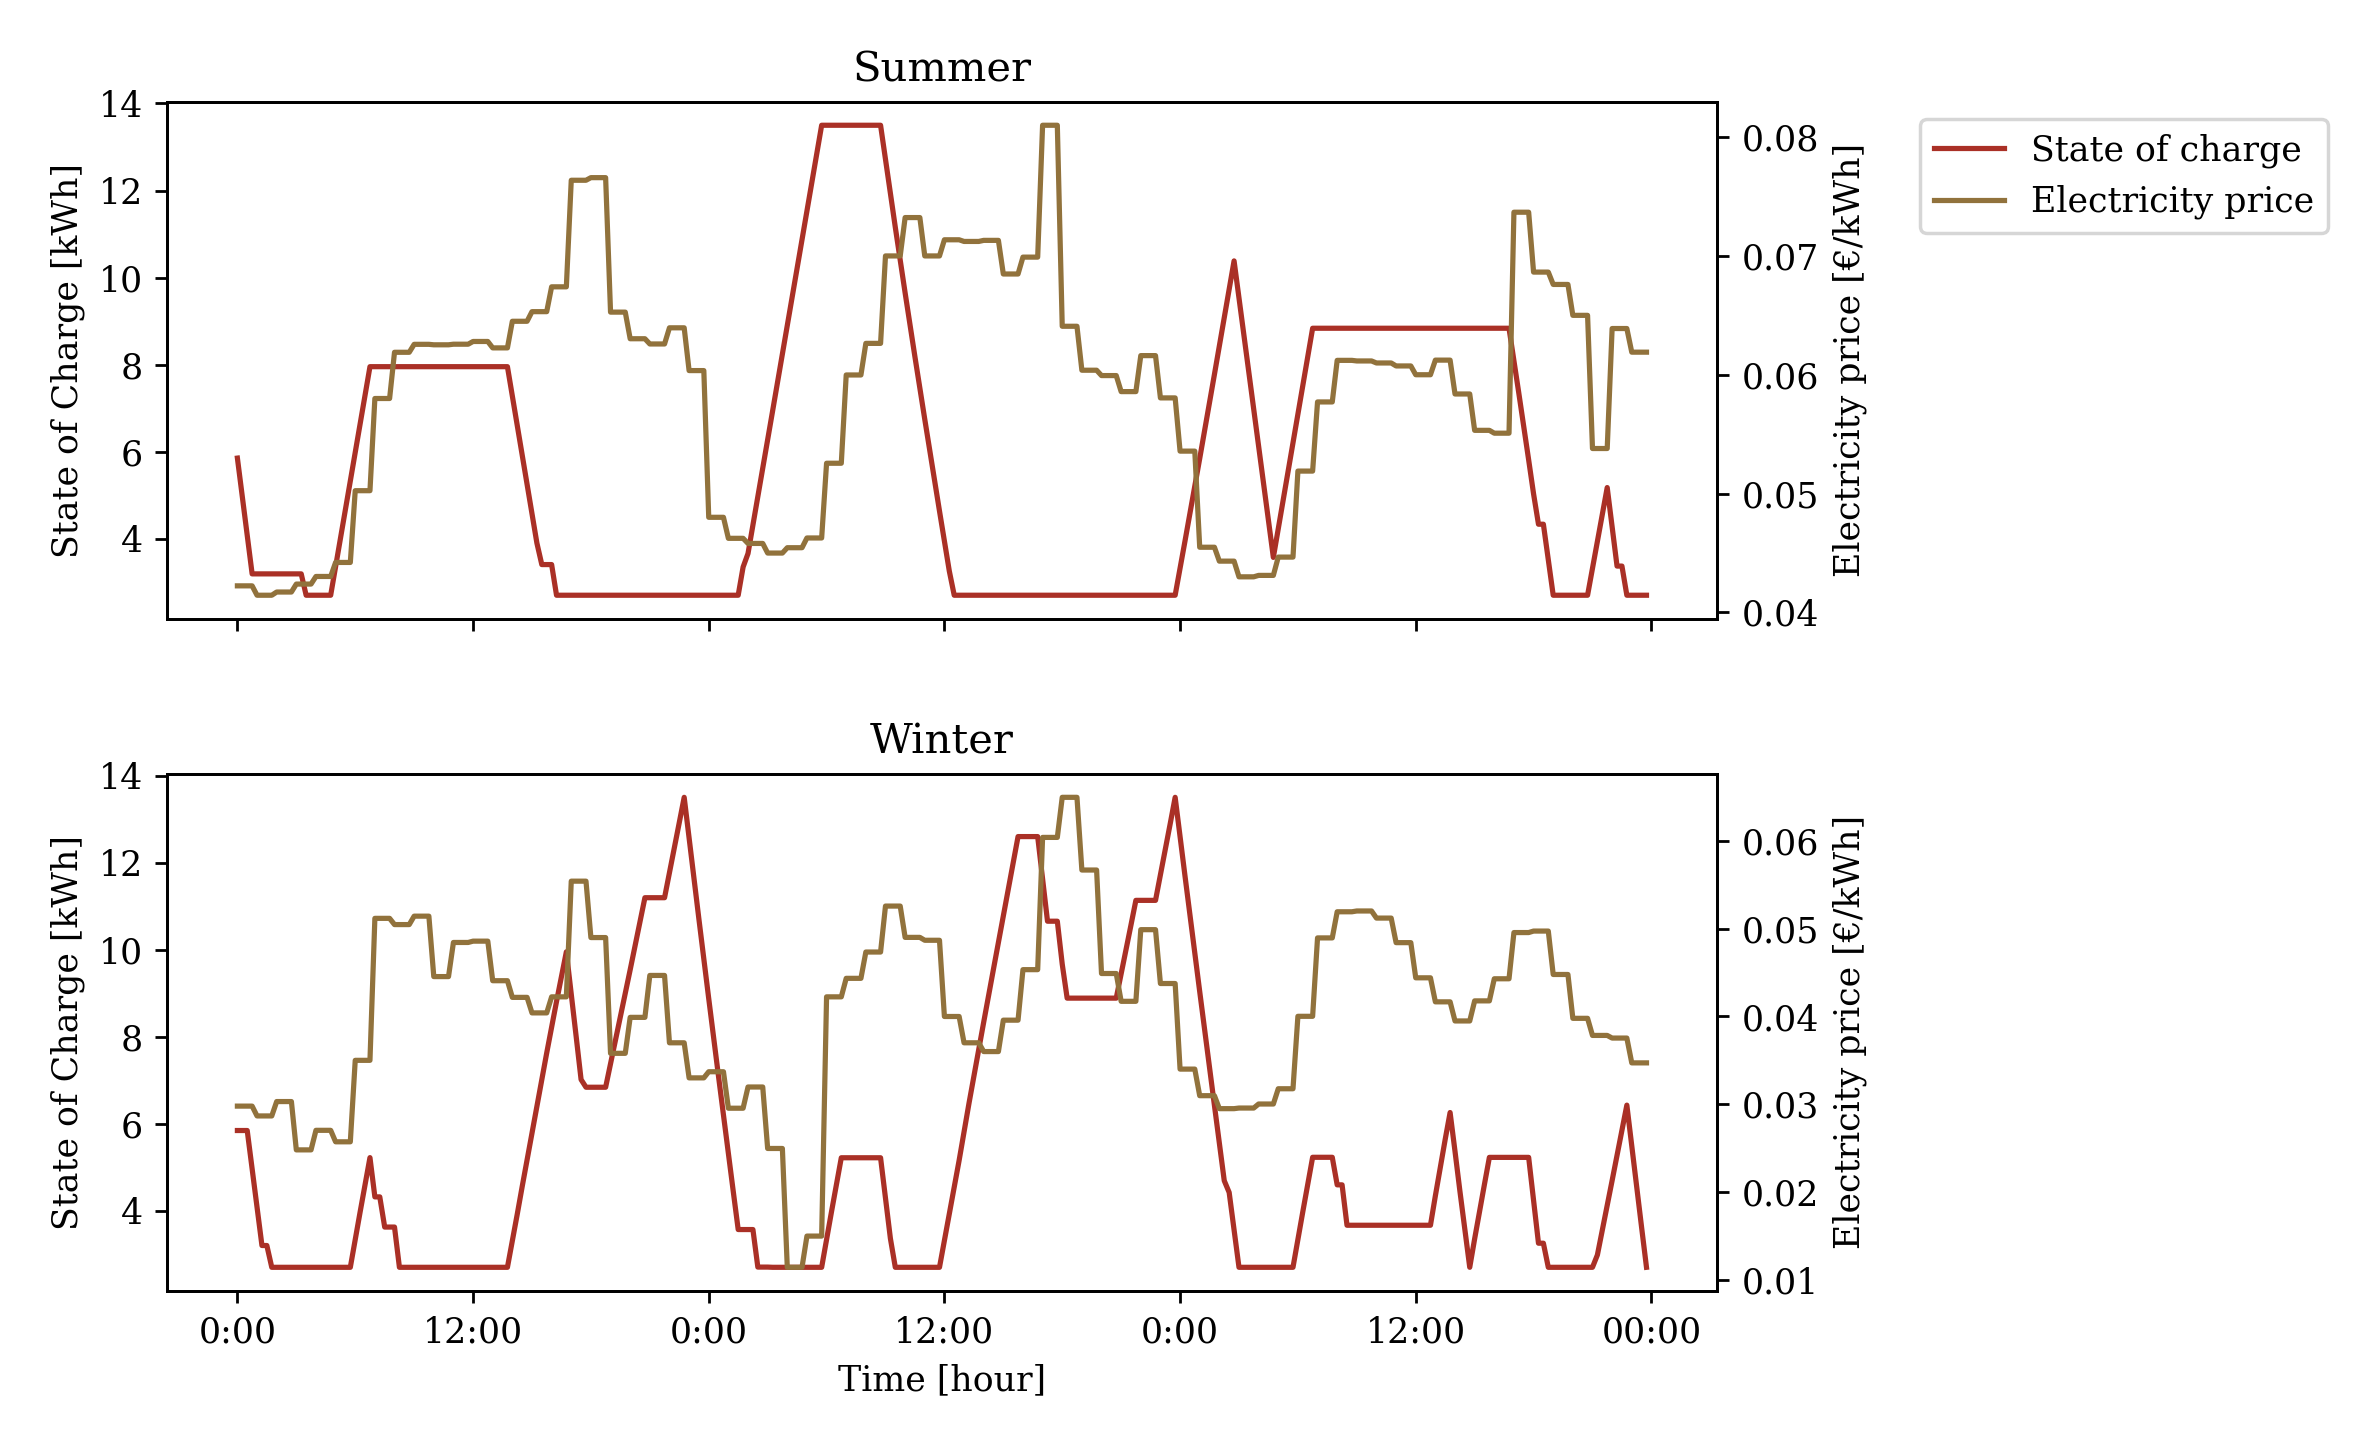
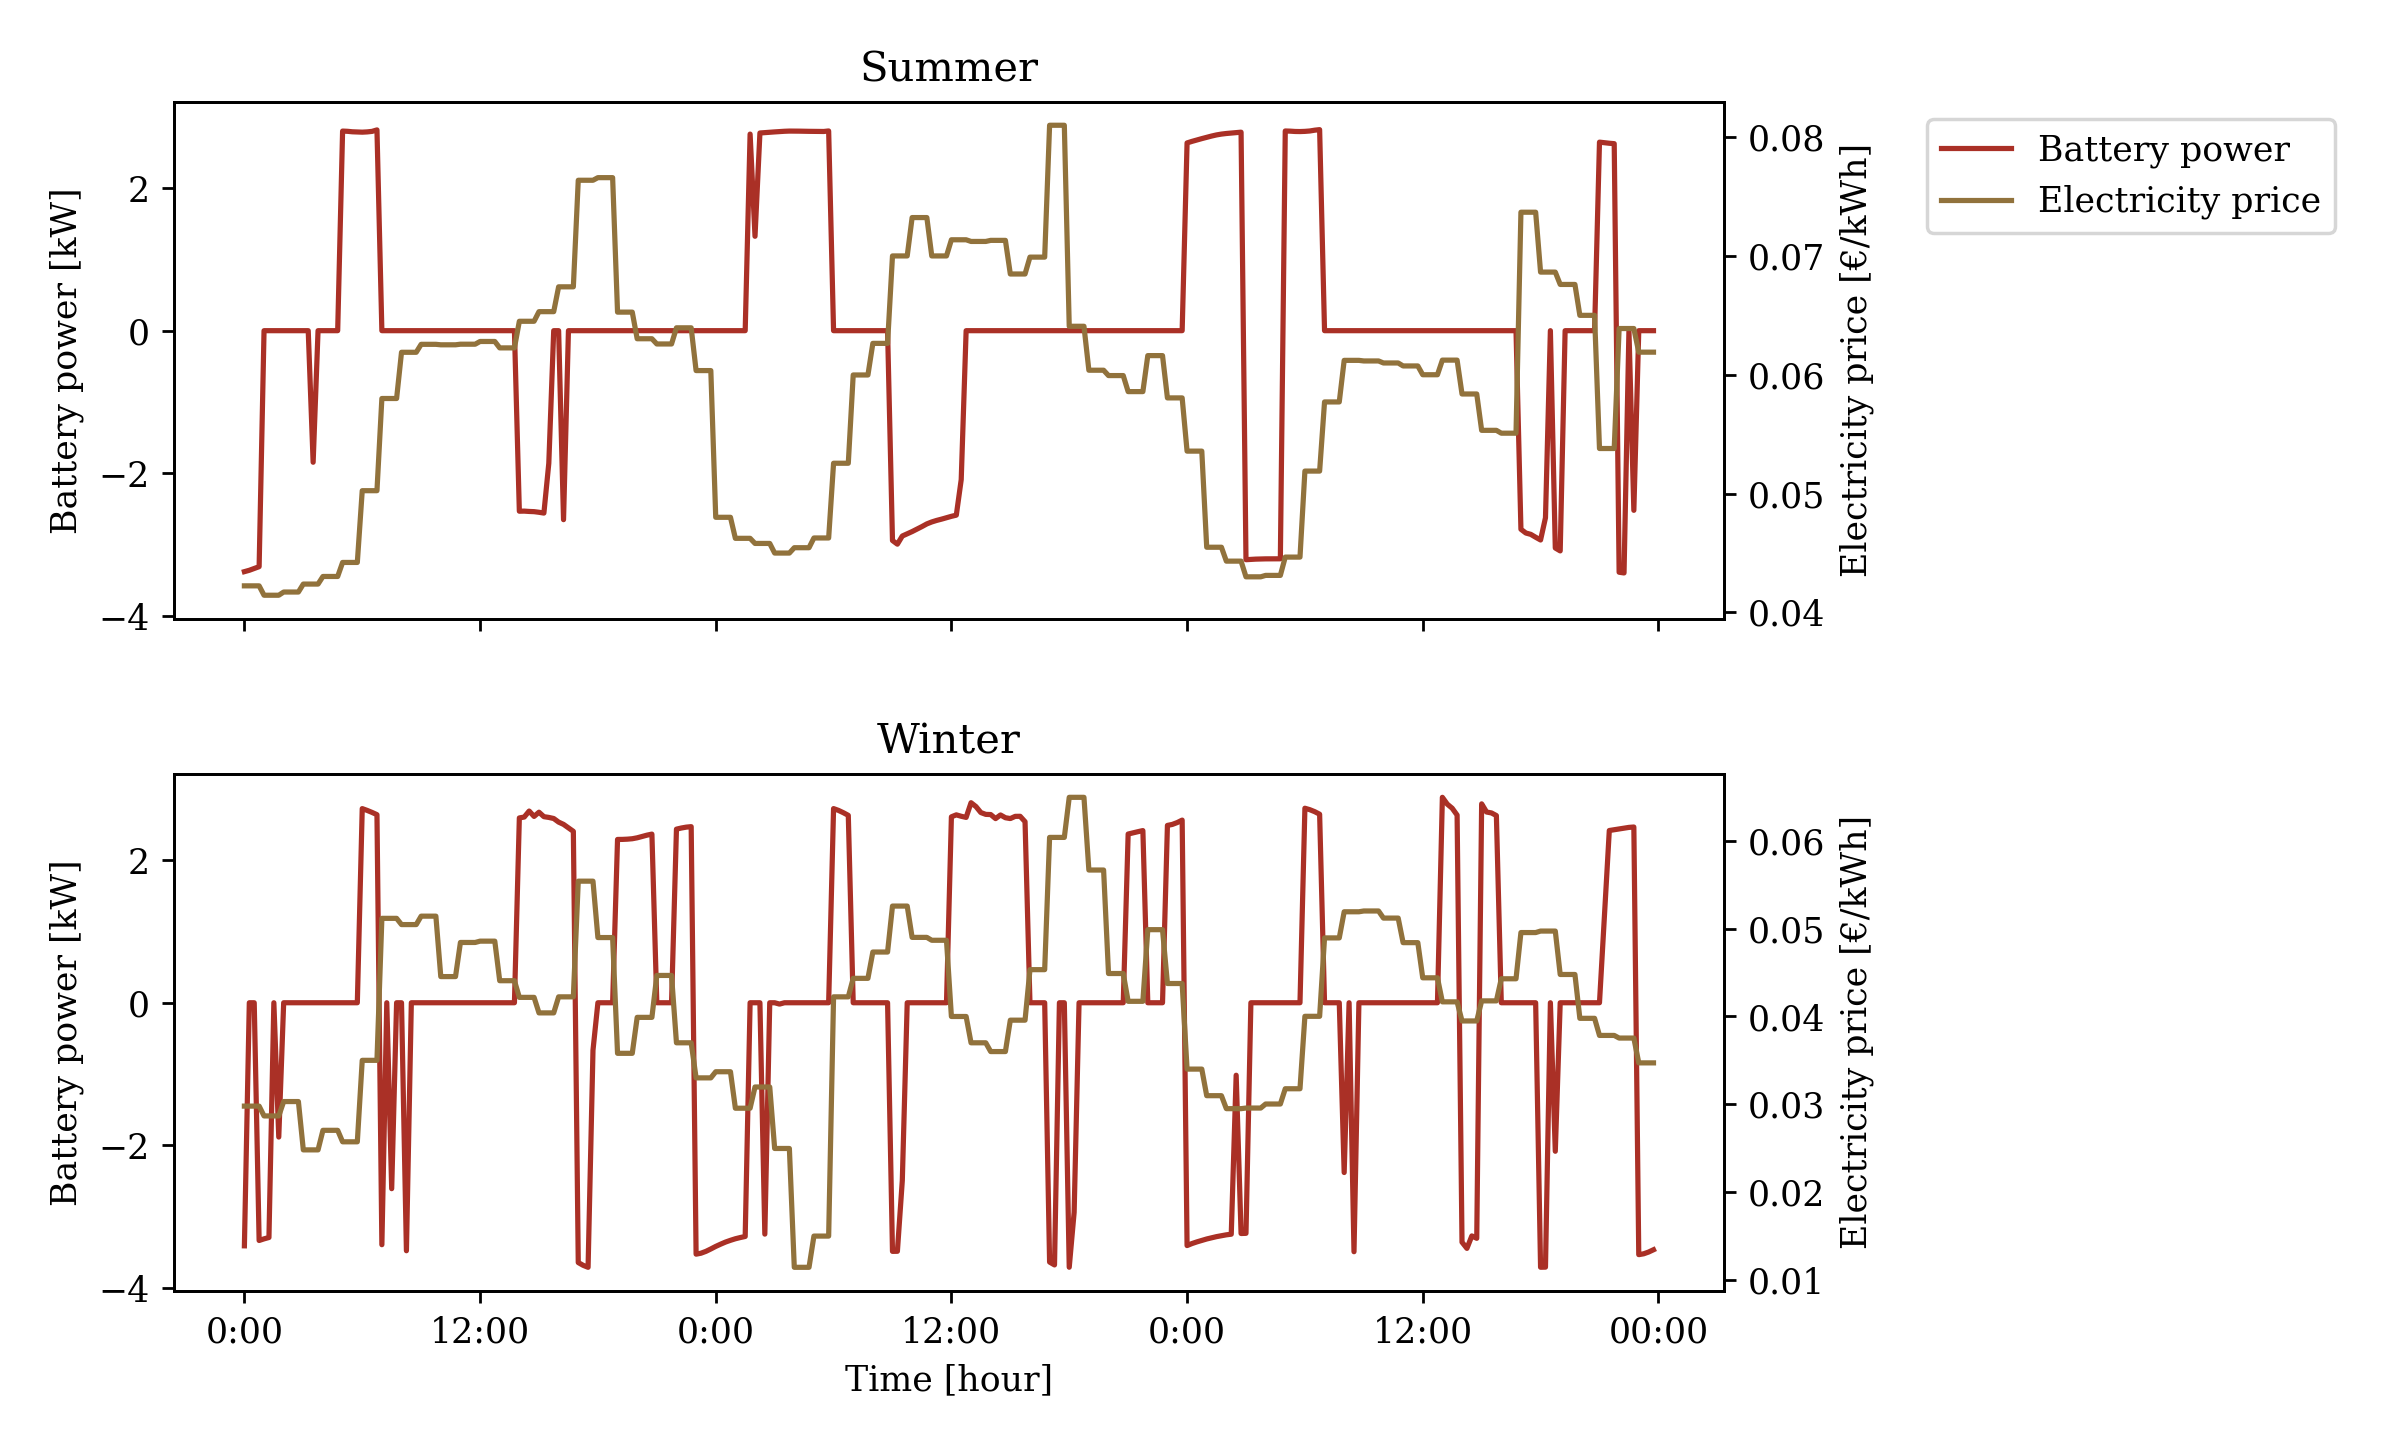
fix: Change SoC to battery power for the price vs power plot

diff --git a/src/question2.py b/src/question2.py
@@ -49,14 +49,14 @@ for index, season in enumerate(results):
 plots.savefig('../output/demand_and_pv.png')
 
 # Create a plot with the price and state of charge
-figure, axes = initiate_figure(ylabel='State of Charge [kWh]')
+figure, axes = initiate_figure(ylabel='Battery power [kW]')
 for index, season in enumerate(results):
     subplot = initiate_subplot(axes, index, season)
     subplot2 = subplot.twinx()
     subplot2.set_ylabel('Electricity price [€/kWh]')
 
-    plot1 = subplot.plot(results[season].battery_charge,
-                         color='#aa3026', label='State of charge')
+    plot1 = subplot.plot(results[season].battery_power,
+                         color='#aa3026', label='Battery power')
     plot2 = subplot2.plot(results[season].price, color='#91723c',
                           label='Electricity price')
 
